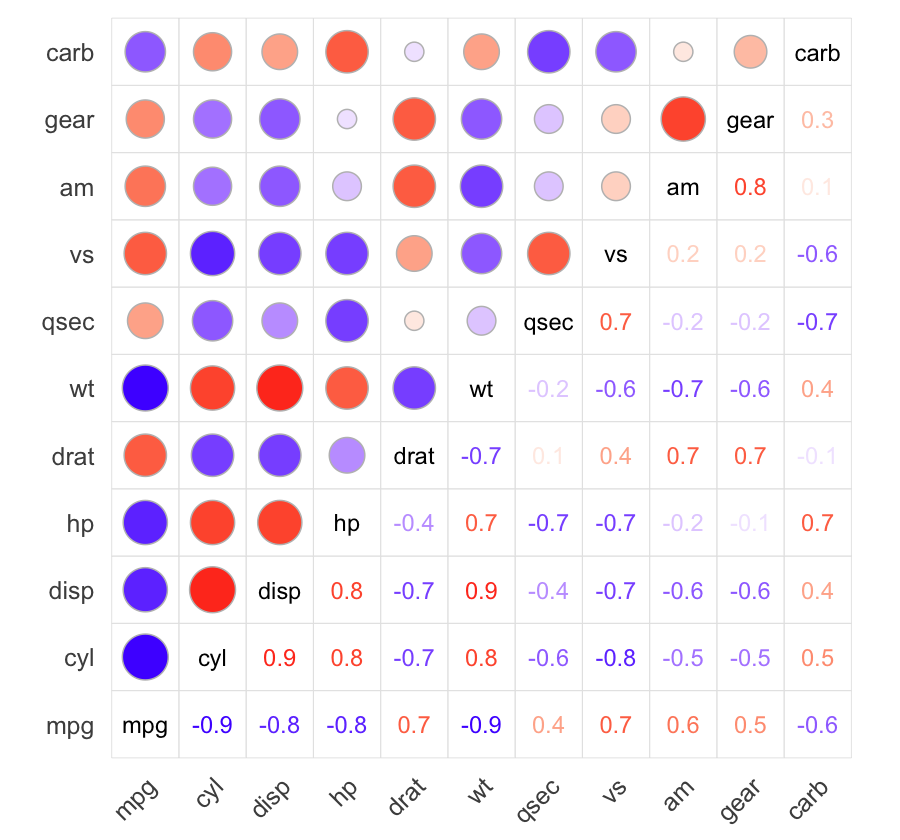
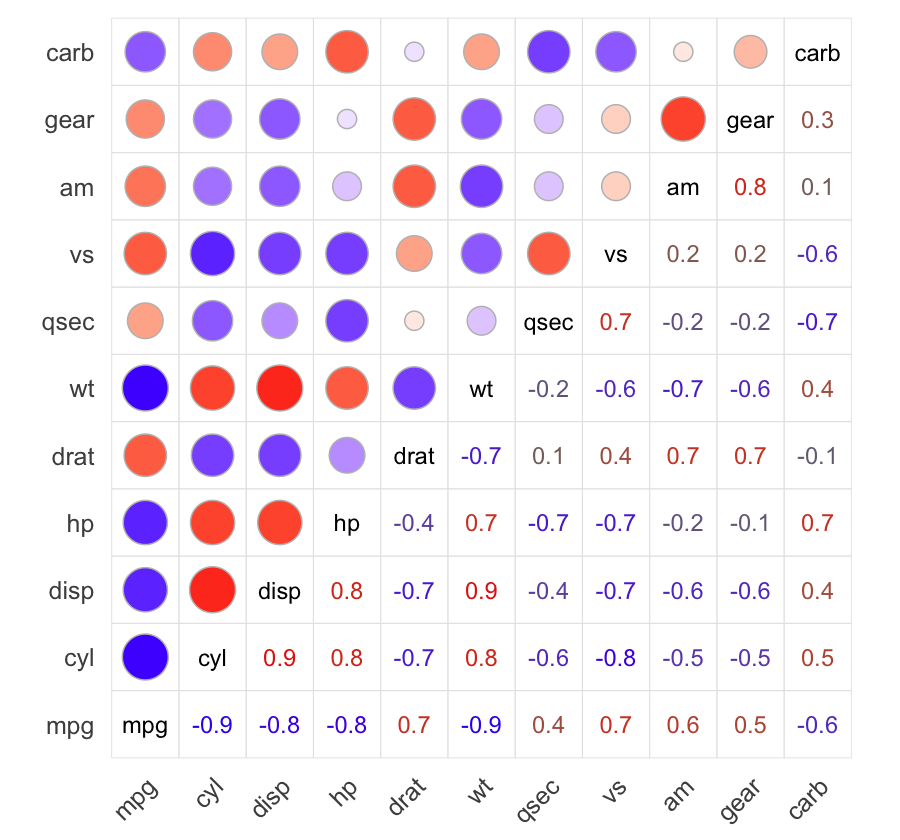
Keep the mixed layout on one axis order and make its numbers readable
Two defects in the mixed per-triangle layout, both found while auditing the
development version against the last release.

The two axes were re-levelled independently from the order the variables
happen to first appear in the melted data. Once the correlation matrix has a
ragged NA pattern -- cor(x, use = "pairwise.complete.obs") with a pair that
never co-occurs, or a zero-variance column -- that order is not the matrix
order, and the two axes drift apart. The region split then compares positions
on two different scales, so the diagonal region drew a variable name on a cell
that was not a self-pair and hid the coefficient underneath it. The plot
rendered cleanly, with no error or warning. Both axes now take one level order
from the matrix itself; a variable absent from the data on both axes is still
dropped rather than left as an empty band.

The "number" glyph mapped the coefficient text onto the fill ramp, which is
white at zero, so a near-zero coefficient was invisible against the panel --
and an empty cell in a correlogram reads as removed or non-significant. The
text now uses a darkened copy of the ramp: same hues, so warm still reads as
positive and cool as negative, but every stop clears a 4.5:1 contrast ratio
against white. The fill scale and every non-mixed plot are untouched.

Also state in the documentation that the significance stars use fixed
thresholds rather than sig.level, and that the cut-offs are inclusive; stop a
[…]

diff --git a/README.md b/README.md
@@ -28,7 +28,7 @@ It can:
   - compute the matrix of **correlation p-values** with `cor_pmat()`.
 
 Learn more at
-<https://www.sthda.com/english/wiki/ggcorrplot-visualization-of-a-correlation-matrix-using-ggplot2>.
+<https://www.datanovia.com/learn/biostatistics/correlation/ggcorrplot-in-r>.
 
 ## Installation
 
@@ -169,10 +169,10 @@ ggcorrplot(corr, hc.order = TRUE, type = "lower", p.mat = p.mat, insig = "blank"
 
 `insig = "stars"` flips the emphasis: instead of crossing out the
 non-significant cells, it marks the **significant** ones with
-significance stars (`***`, `**`, `*` for p \< 0.001, 0.01, 0.05). With
-the default `lab = FALSE` this is a standalone significance map; with
-`lab = TRUE` the stars are appended to the coefficients
-(e.g. `-0.85***`).
+significance stars (`***`, `**`, `*` for p \<= 0.001, 0.01, 0.05 – fixed
+thresholds, not `sig.level`). With the default `lab = FALSE` this is a
+standalone significance map; with `lab = TRUE` the stars are appended to
+the coefficients (e.g. `-0.85***`).
 
 ``` r
 ggcorrplot(corr, p.mat = p.mat, insig = "stars")

diff --git a/NEWS.md b/NEWS.md
@@ -31,7 +31,8 @@
   Defaults to `NULL` (use `colors`), leaving existing calls unchanged.
 
 - New value `insig = "stars"` to mark the significant cells with significance
-  stars (`***`/`**`/`*` for p < 0.001/0.01/0.05) instead of crossing out the
+  stars (`***`/`**`/`*` for p <= 0.001/0.01/0.05 -- fixed thresholds, not
+  `sig.level`) instead of crossing out the
   insignificant ones. Works without `lab`, so `ggcorrplot(corr, p.mat = p.mat,
   insig = "stars")` is a standalone significance map. The default `insig = "pch"`
   is unchanged.